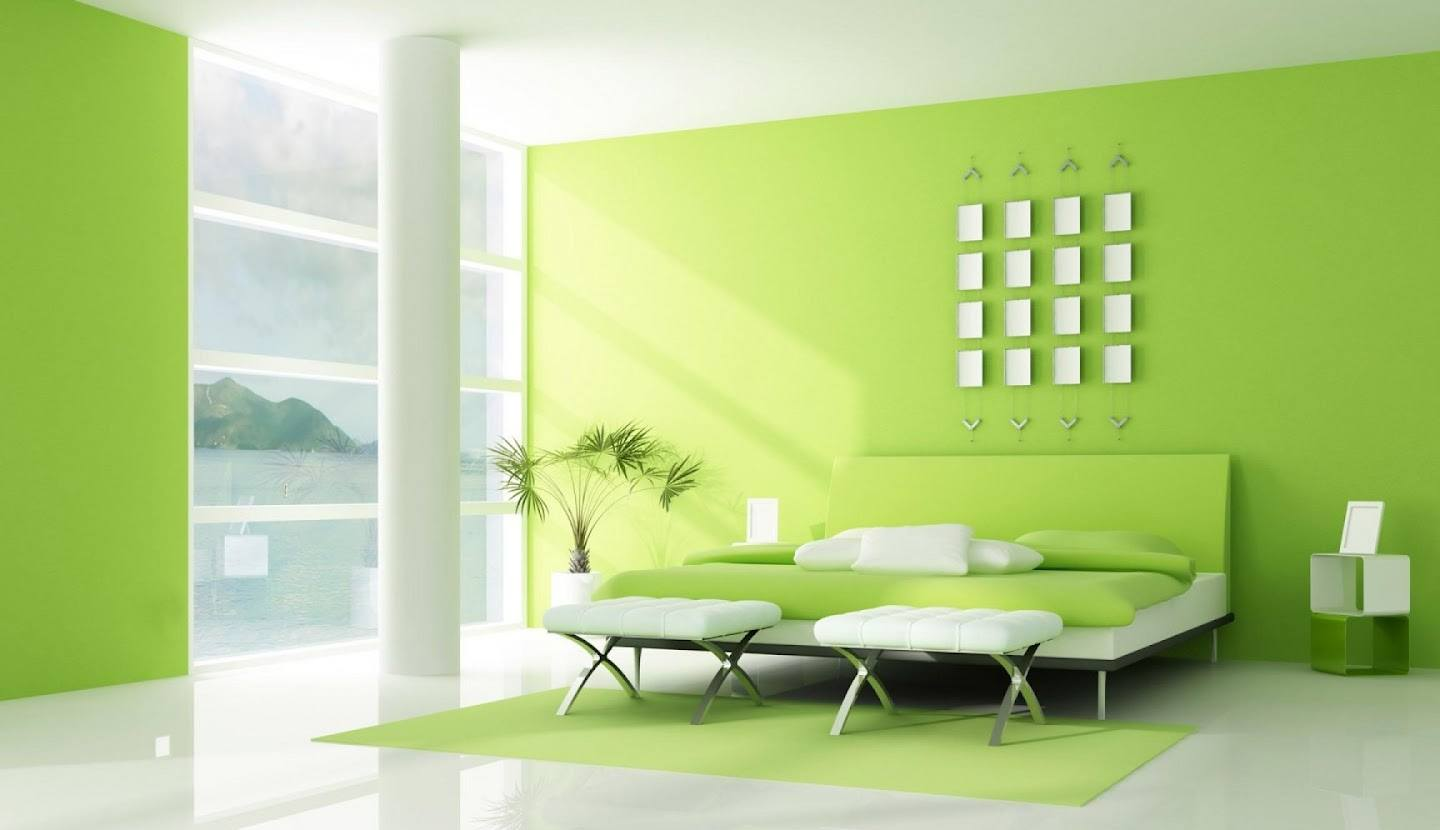
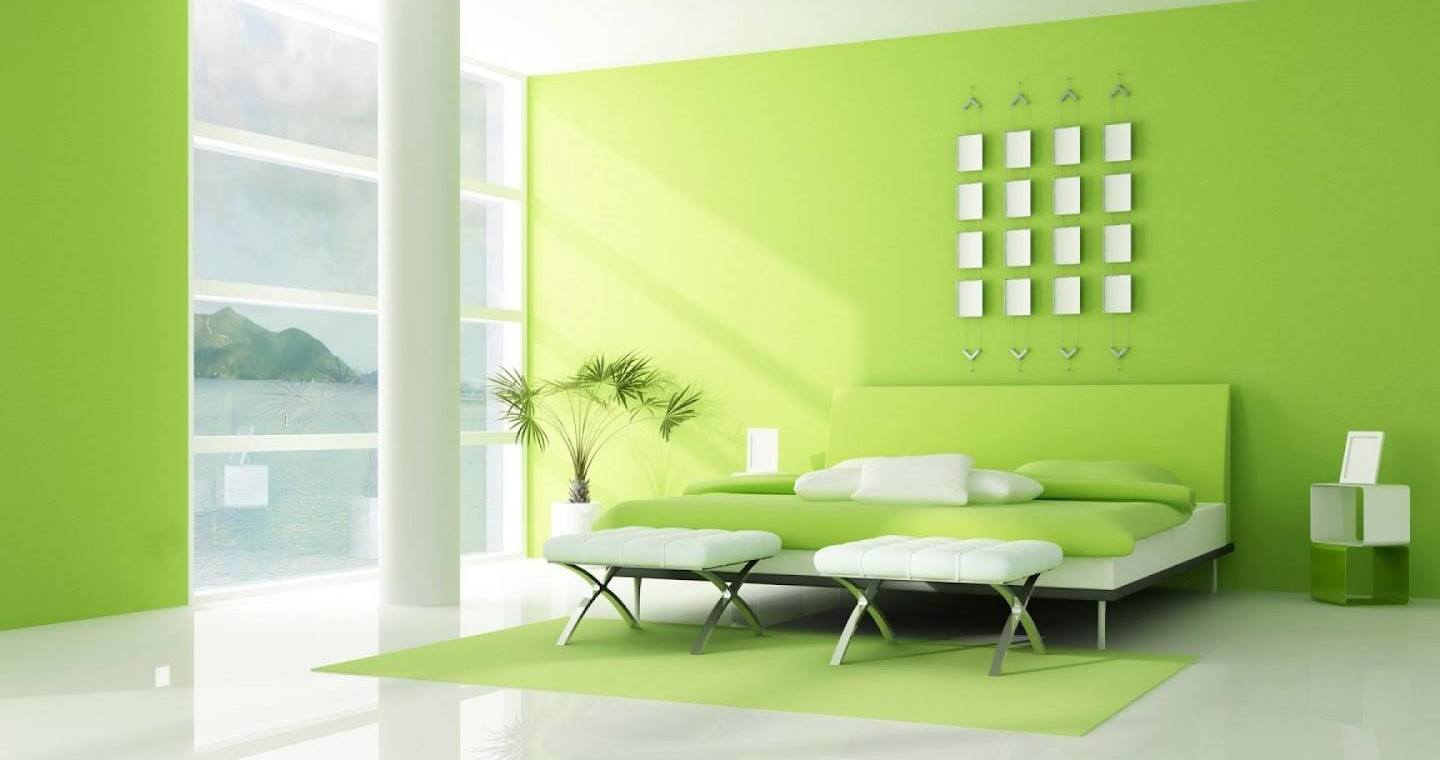
ref: change background image size

diff --git a/src/components/site-pages/landing-page/landing-page.scss b/src/components/site-pages/landing-page/landing-page.scss
@@ -18,7 +18,7 @@
     }
 
     &_position {
-      margin-top: rem(190);
+      margin-top: rem(67);
 
       @media screen and (max-width: $phoneWidth) {
         margin-right: auto;
